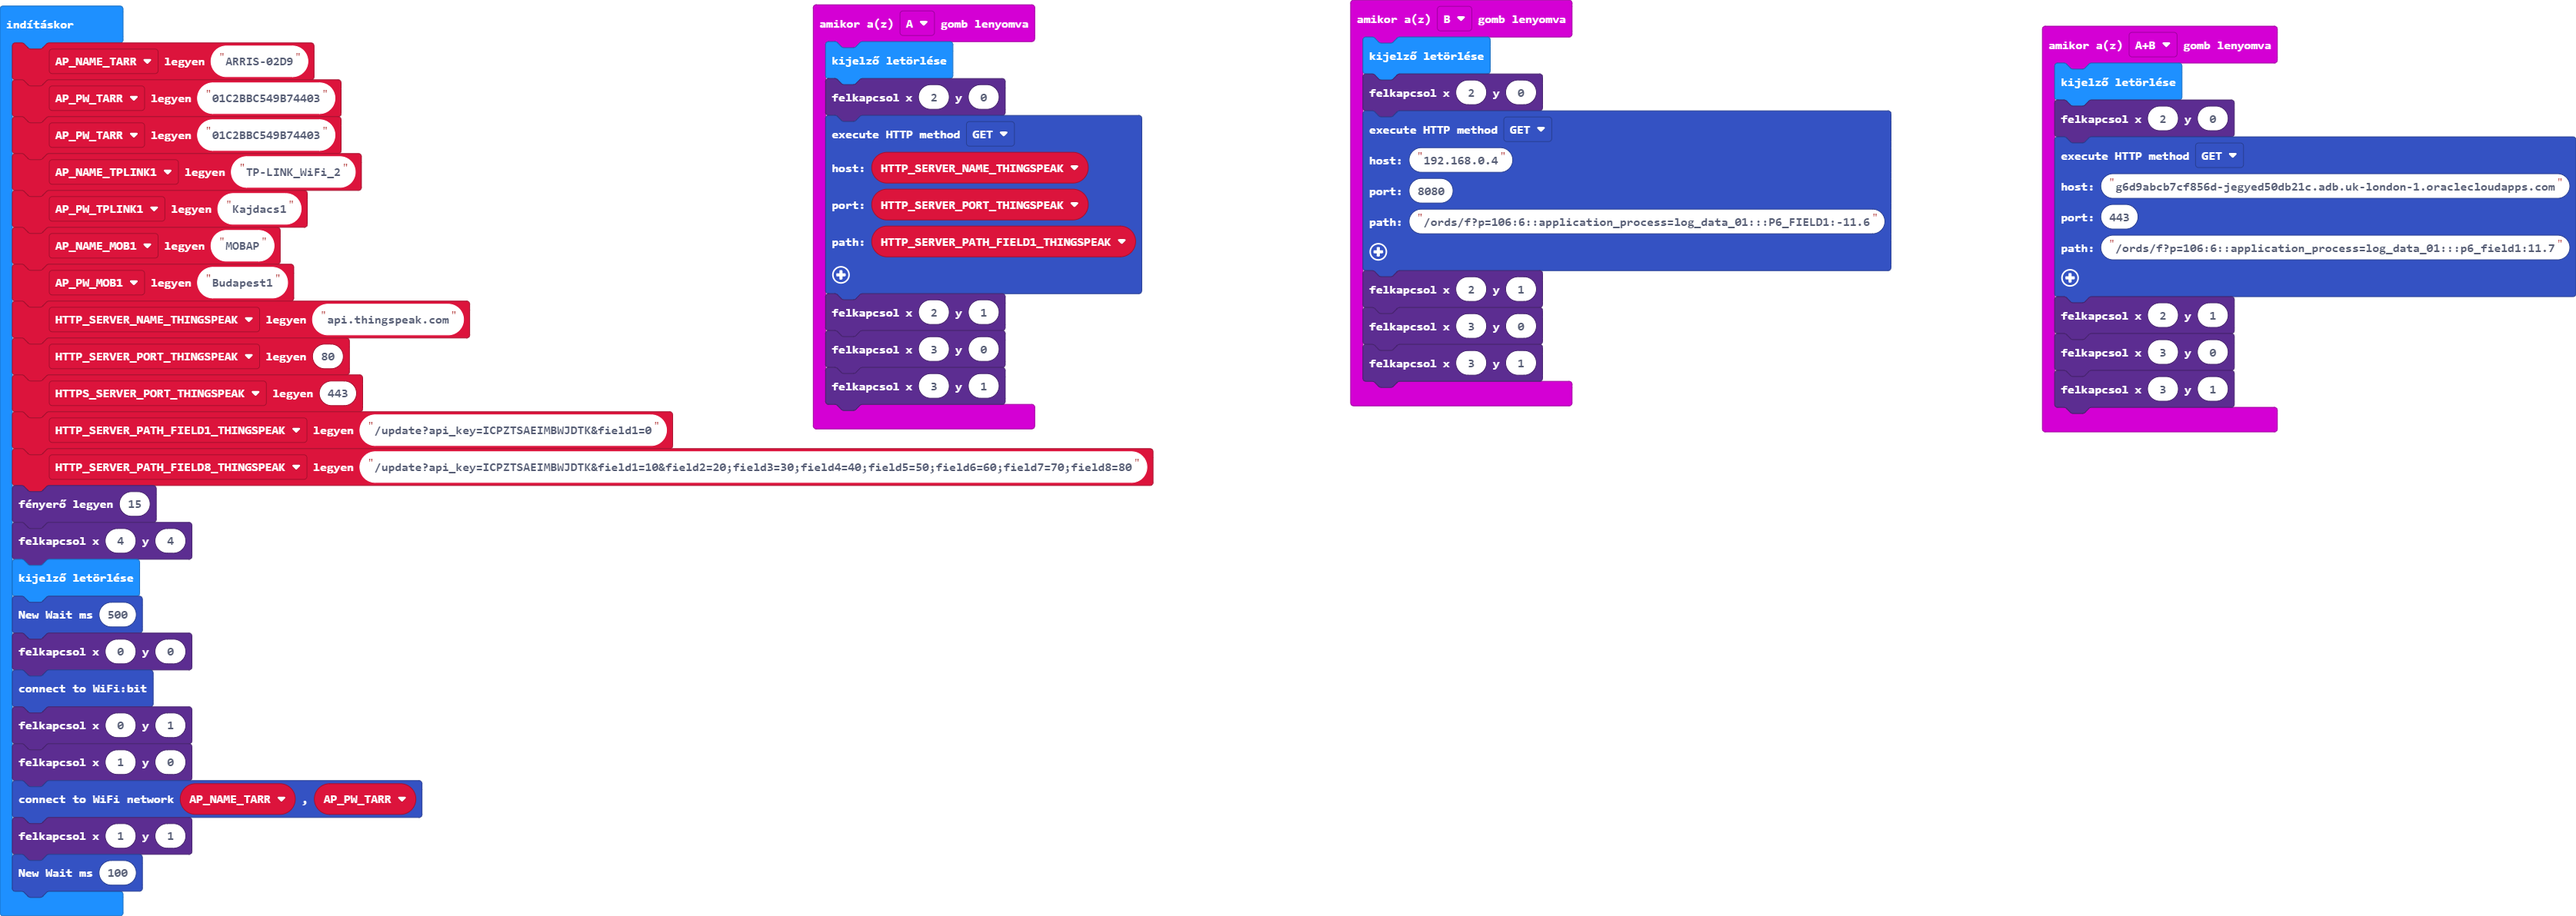
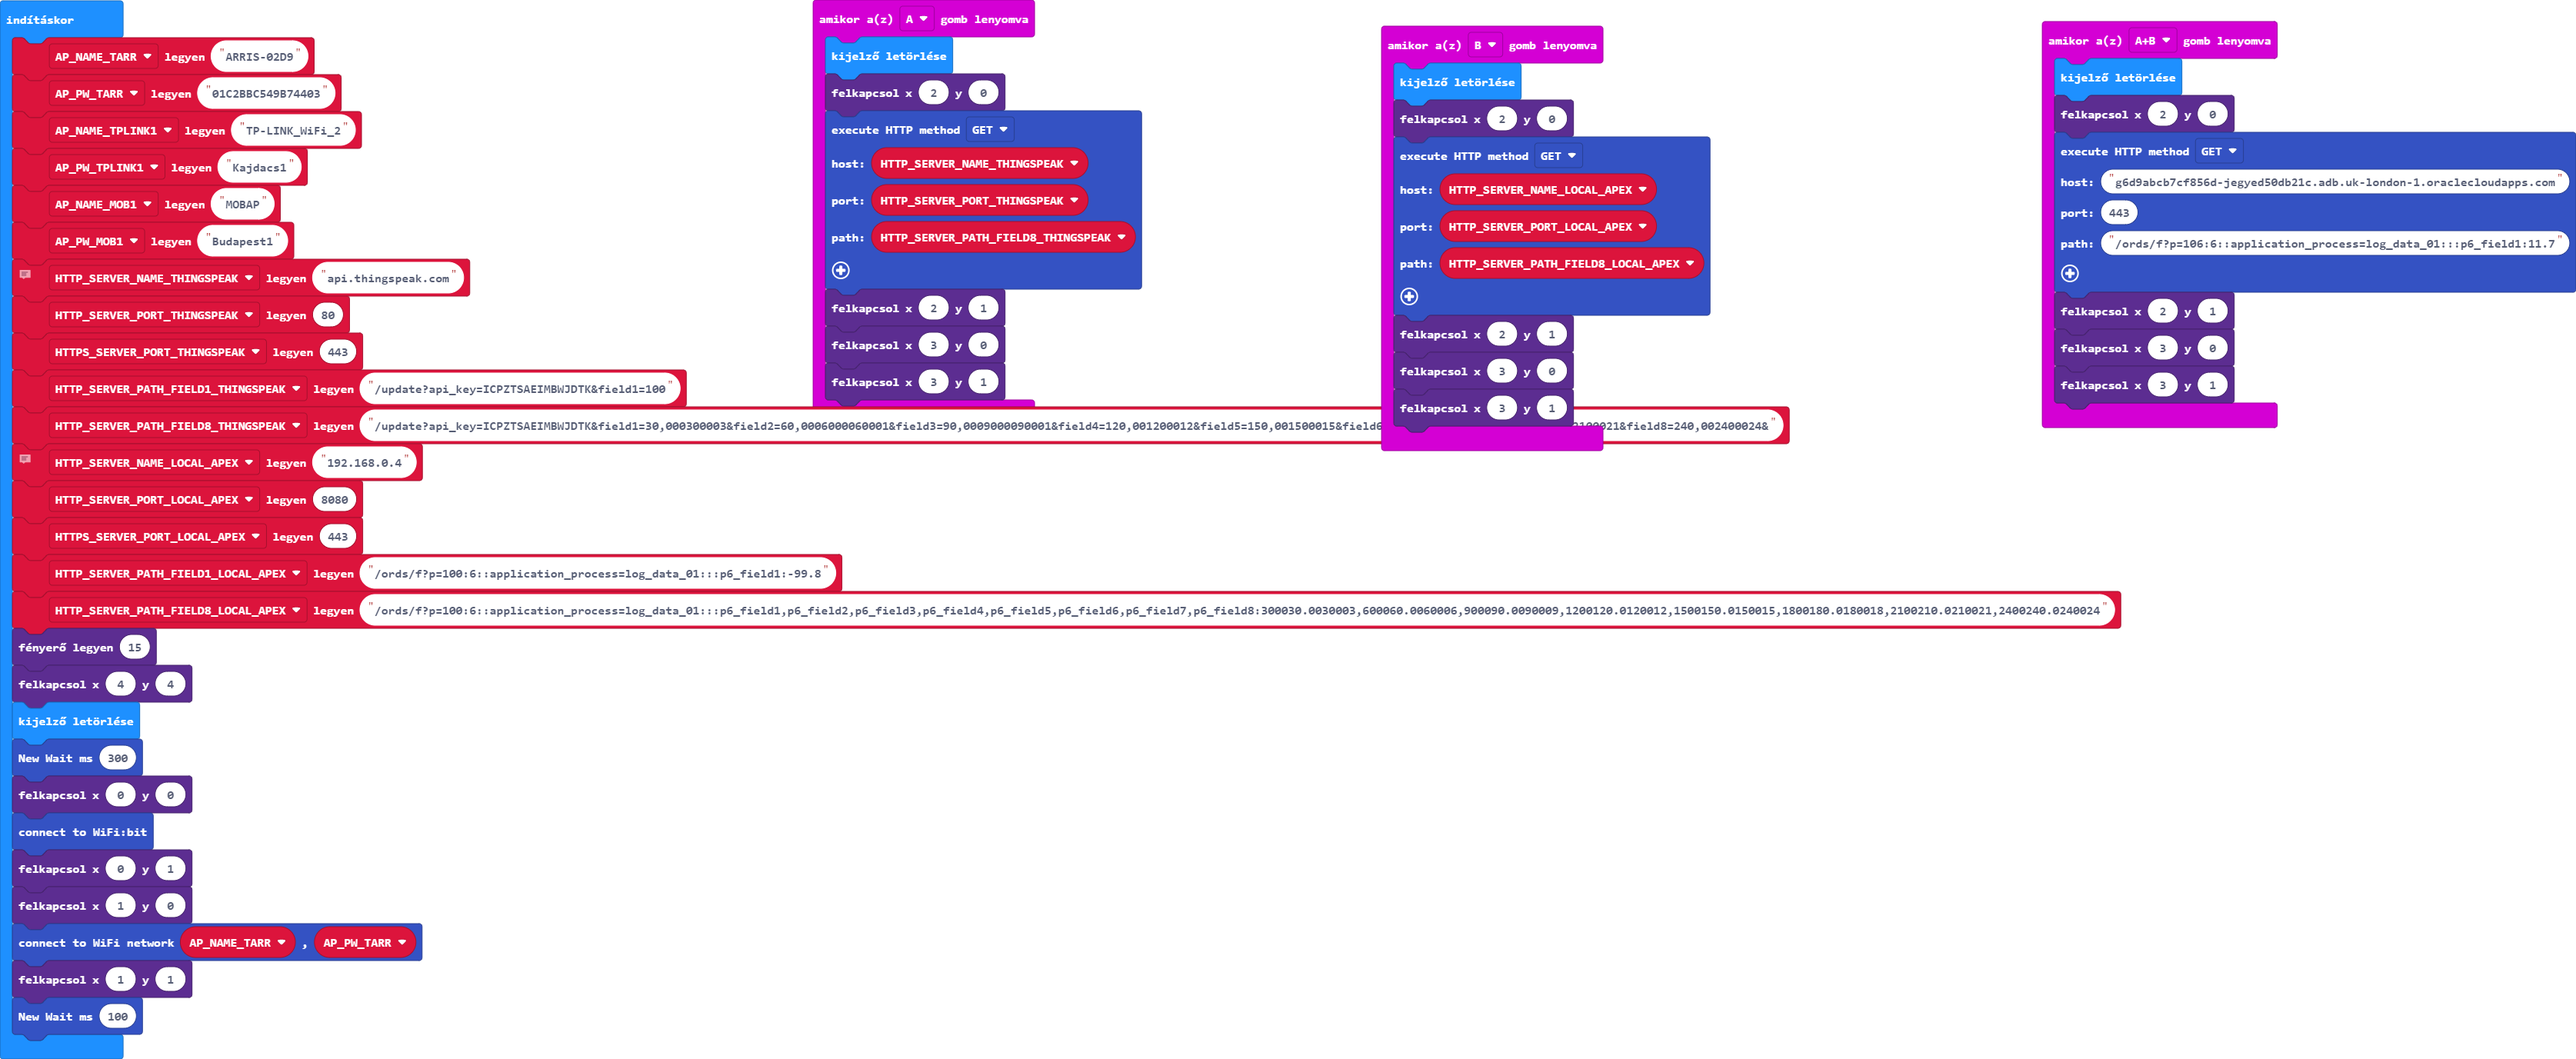
pxt.json, main.blocks, main.ts frissítése

Changed region(s): [[0.0, 0.0, 0.8385, 0.9933], [0.7764, 0.0, 1.0, 0.4966]]

diff --git a/main.ts b/main.ts
@@ -5,7 +5,7 @@ input.onButtonPressed(Button.A, function () {
     HttpMethod.GET,
     HTTP_SERVER_NAME_THINGSPEAK,
     HTTP_SERVER_PORT_THINGSPEAK,
-    HTTP_SERVER_PATH_FIELD1_THINGSPEAK
+    HTTP_SERVER_PATH_FIELD8_THINGSPEAK
     )
     led.plot(2, 1)
     led.plot(3, 0)
@@ -29,33 +29,52 @@ input.onButtonPressed(Button.B, function () {
     led.plot(2, 0)
     WiFiBit.executeHttpMethod(
     HttpMethod.GET,
-    "192.168.0.4",
-    8080,
-    "/ords/f?p=106:6::application_process=log_data_01:::P6_FIELD1:-11.6"
+    HTTP_SERVER_NAME_LOCAL_APEX,
+    HTTP_SERVER_PORT_LOCAL_APEX,
+    HTTP_SERVER_PATH_FIELD8_LOCAL_APEX
     )
     led.plot(2, 1)
     led.plot(3, 0)
     led.plot(3, 1)
 })
-let HTTP_SERVER_PATH_FIELD1_THINGSPEAK = ""
+let HTTP_SERVER_PATH_FIELD8_LOCAL_APEX = ""
+let HTTP_SERVER_PORT_LOCAL_APEX = 0
+let HTTP_SERVER_NAME_LOCAL_APEX = ""
+let HTTP_SERVER_PATH_FIELD8_THINGSPEAK = ""
 let HTTP_SERVER_PORT_THINGSPEAK = 0
 let HTTP_SERVER_NAME_THINGSPEAK = ""
 let AP_NAME_TARR = "ARRIS-02D9"
 let AP_PW_TARR = "01C2BBC549B74403"
-AP_PW_TARR = "01C2BBC549B74403"
 let AP_NAME_TPLINK1 = "TP-LINK_WiFi_2"
 let AP_PW_TPLINK1 = "Kajdacs1"
 let AP_NAME_MOB1 = "MOBAP"
 let AP_PW_MOB1 = "Budapest1"
+// thingspeak
 HTTP_SERVER_NAME_THINGSPEAK = "api.thingspeak.com"
 HTTP_SERVER_PORT_THINGSPEAK = 80
 let HTTPS_SERVER_PORT_THINGSPEAK = 443
-HTTP_SERVER_PATH_FIELD1_THINGSPEAK = "/update?api_key=ICPZTSAEIMBWJDTK&field1=0"
-let HTTP_SERVER_PATH_FIELD8_THINGSPEAK = "/update?api_key=ICPZTSAEIMBWJDTK&field1=10&field2=20;field3=30;field4=40;field5=50;field6=60;field7=70;field8=80"
+let HTTP_SERVER_PATH_FIELD1_THINGSPEAK = "/update?api_key=ICPZTSAEIMBWJDTK&field1=100"
+HTTP_SERVER_PATH_FIELD8_THINGSPEAK = "/update?api_key=ICPZTSAEIMBWJDTK&field1=30,000300003&field2=60,0006000060001&field3=90,0009000090001&field4=120,001200012&field5=150,001500015&field6=180,001800018&field7=210,002100021&field8=240,002400024&"
+// APEX HTTP local
+HTTP_SERVER_NAME_LOCAL_APEX = "192.168.0.4"
+HTTP_SERVER_PORT_LOCAL_APEX = 8080
+let HTTPS_SERVER_PORT_LOCAL_APEX = 443
+let HTTP_SERVER_PATH_FIELD1_LOCAL_APEX = "/ords/f?p=100:6::application_process=log_data_01:::p6_field1:-99.8"
+HTTP_SERVER_PATH_FIELD8_LOCAL_APEX = "/ords/f?p=100:6::application_process=log_data_01:::p6_field1,p6_field2,p6_field3,p6_field4,p6_field5,p6_field6,p6_field7,p6_field8:300030.0030003,600060.0060006,900090.0090009,1200120.0120012,1500150.0150015,1800180.0180018,2100210.0210021,2400240.0240024"
+// APEX HTTPS Allways Free UK
+let HTTP_SERVER_NAME_UK1_APEX = "g6d9abcb7cf856d-jegyed50db21c.adb.uk-london-1.oraclecloudapps.com"
+let HTTP_SERVER_PORT_UKL_APEX = 8080
+let HTTPS_SERVER_PORT_UK_APEX = 443
+let HTTP_SERVER_PATH_FIELD1_UK_APEX = "/ords/f?p=106:6::application_process=log_data_01:::p6_field1:-99.9"
+let HTTP_SERVER_PATH_FIELD8_UK_APEX = "/ords/f?p=100:6::application_process=log_data_01:::p6_field1,p6_field2,p6_field3,p6_field4,p6_field5,p6_field6,p6_field7,p6_field8:300030.0030003,600060.0060006,900090.0090009,1200120.0120012,1500150.0150015,1800180.0180018,2100210.0210021,2400240.0240024"
+
+
+
+
 led.setBrightness(15)
 led.plot(4, 4)
 basic.clearScreen()
-WiFiBit.changeHttpMethodWaitPeriod(500)
+WiFiBit.changeHttpMethodWaitPeriod(300)
 led.plot(0, 0)
 WiFiBit.connectToWiFiBit()
 led.plot(0, 1)
